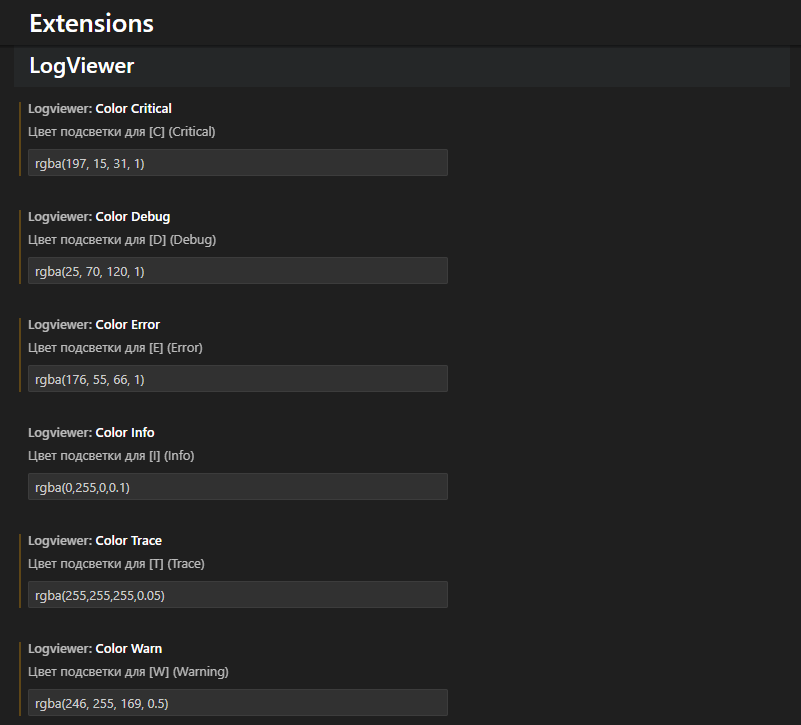
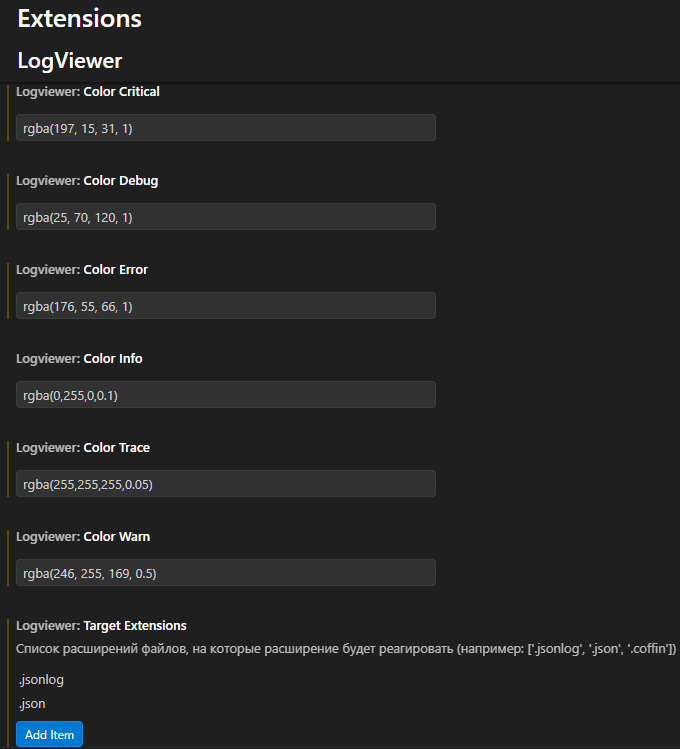
Update readme and docs

Changed region(s): [[0.0, 0.5766, 1.0, 1.0], [0.0, 0.0, 0.2779, 0.4855], [0.0309, 0.5159, 0.1853, 0.5462]]

diff --git a/README.md b/README.md
@@ -1,6 +1,6 @@
 # 🖼 Принцип работы
 
-При открытии файла .json или .jsonlog форматирование применяется автоматически для файлов (Набор расширений с автоматическим форматированием можно изменить в настройках)
+При открытии файла .json или .jsonlog форматирование применяется автоматически (Набор расширений с автоматическим форматированием можно изменить в настройках)
 До:
 ```cpp
 {"Date":"2025-09-15 14:08:22.183431000", "ModuleName":"Transport", "LogLevel":"debug", "Title":"Send keyResponse","Host":"::ffff:10.0.0.221","Port":47845}
@@ -13,11 +13,13 @@
 
 # ⚙ Настройки
 
-В настройках расширения LogViewer (Ctrl + , -> Extensions -> LogViewer) можно настроить цвета форматирования логов
+В настройках расширения LogViewer (Ctrl + , -> Extensions -> LogViewer) можно настроить:
+
+1. Цвета отформатированных логов
 
 ![FormatedLogs](docs/FormatedLogs.png)
 
-Настройки выглядят следующим образом
+2. Указать расширения файлов по умолчанию, на которые работает автоматический запуск форматирования при открытии
 
 ![Settings](docs/Settings.png)
 
@@ -26,7 +28,7 @@
 # 📌 Статус-бар
 
 Внизу редактора отображается кнопка FormatLog для быстрого форматирования текущего файла.
-Кнопка показывается только если открыт файл с расширением.jsonlog или .json
+Кнопка показывается только если открыт файл с расширением указанным в настройках
 
 # 📄 Лицензия
 
